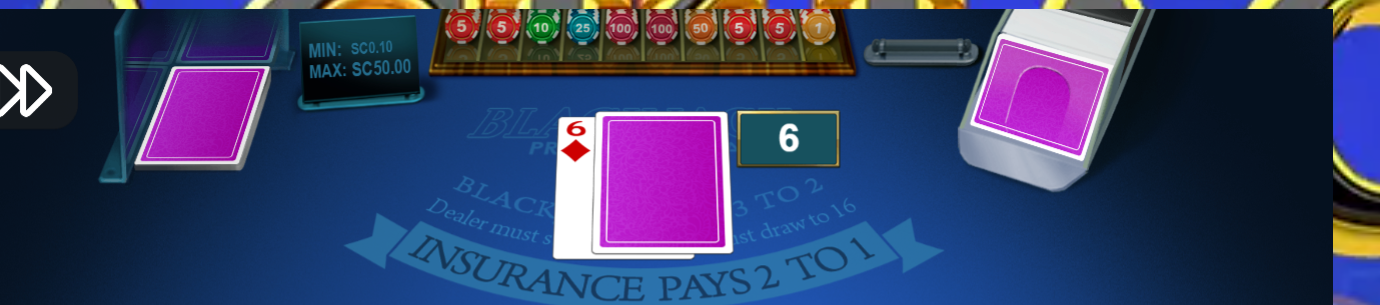
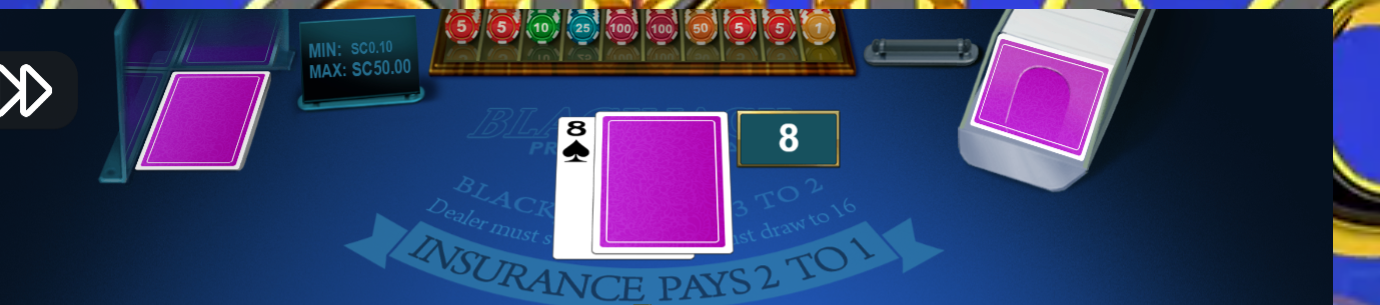
fix overlapping 3 and 8

diff --git a/main.py b/main.py
@@ -71,10 +71,10 @@ class CardChecker:
         # Convert color back to RGB for displaying in matplotlib
         main_image = cv2.cvtColor(main_image, cv2.COLOR_BGR2RGB)
 
-        # # Display using matplotlib
-        # plt.imshow(main_image)
-        # plt.title('Matched Image')
-        # plt.show()
+        # Display using matplotlib
+        plt.imshow(main_image)
+        plt.title('Matched Image')
+        plt.show()
 
         # print(f"{template_image_path} appears {count} times.")
         return found_clusters
@@ -98,6 +98,7 @@ class CardChecker:
         boxBArea = (boxB[2] - boxB[0]) * (boxB[3] - boxB[1])
 
         iou = interArea / float(boxAArea + boxBArea - interArea)
+        print(iou)
         return iou
 
     def get_cards(self, main_image_path, image_directory):
@@ -111,15 +112,17 @@ class CardChecker:
                 for cluster in new_clusters:
                     replace = False
                     for existing_cluster, existing_name in list(self.clusters.items()):
-                        if self.iou(cluster, existing_cluster) > 0.5:
+                        if self.iou(cluster, existing_cluster) > 0.3:
+                            print('replacing')
                             replace = True
-                            if existing_name != card_name:
-                                self.clusters[cluster] = card_name
-                                break
+                            del self.clusters[existing_cluster]
+                            # if existing_name != card_name:
+                            #     self.clusters[cluster] = card_name
+                            #     break
 
                     if not replace:
                         self.clusters[cluster] = card_name
-
+        print(self.clusters)
         cards = []
         for card in self.clusters.values():
             cards.append(card)
@@ -177,6 +180,7 @@ class BlackjackPlayer:
             return
         print('finish check')
         dealer_hand = self.card_checker.get_cards('dealer.png', 'cards')
+        print(dealer_hand)
         if len(dealer_hand) != 1:
             return
         player_hand = self.card_checker.get_cards('player.png', 'cards')
